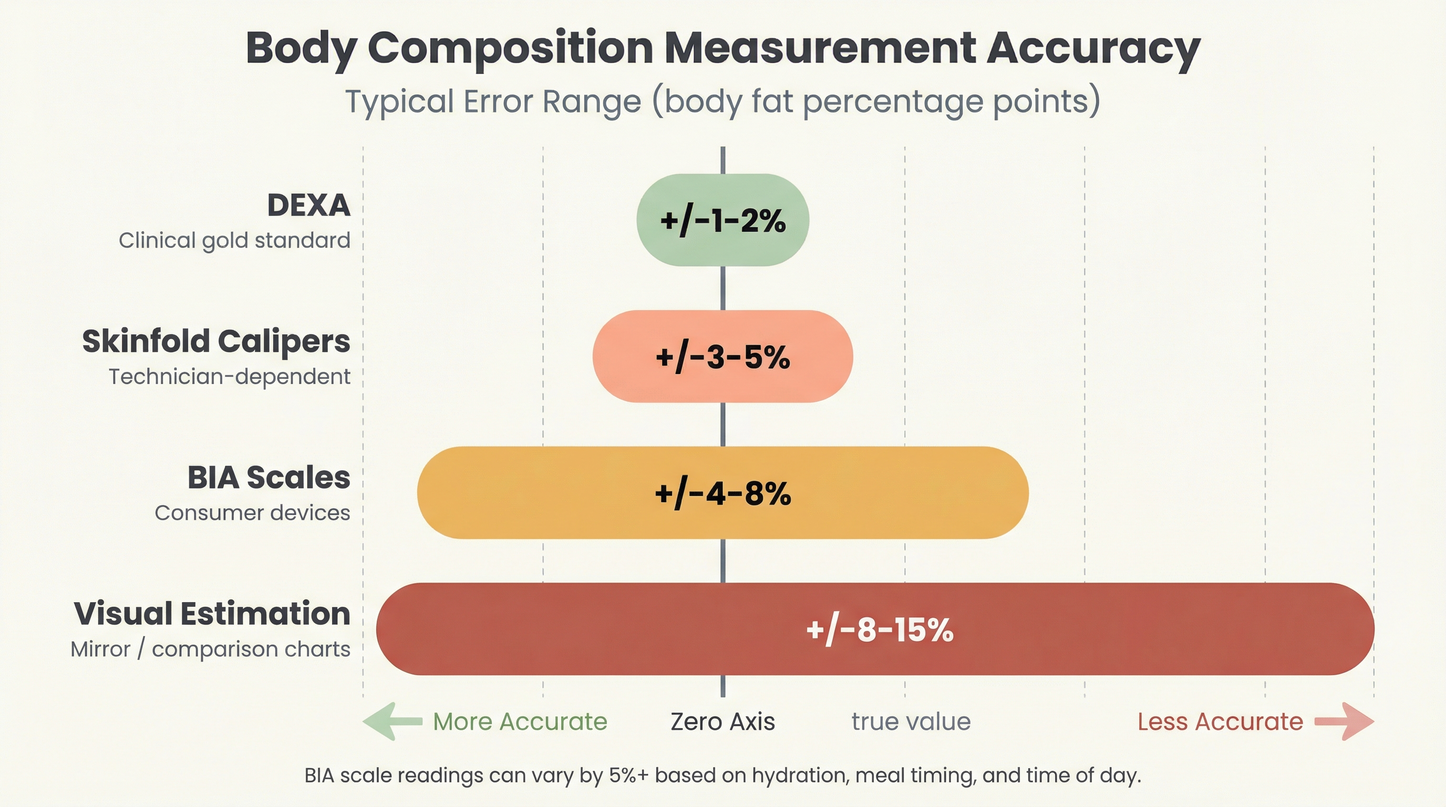
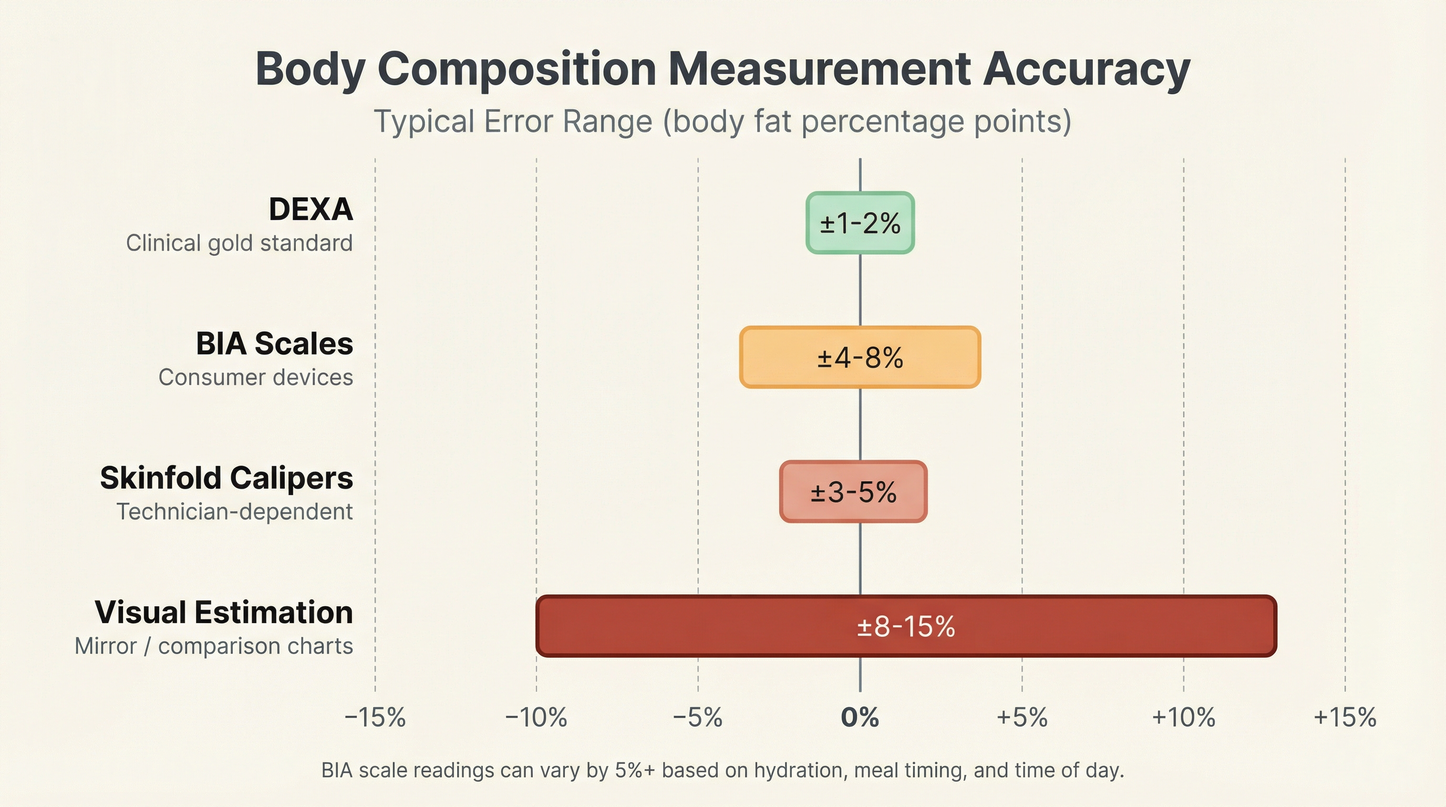
bl: Regenerate method-comparison diagram with improved spec
Strengthen the PaperBanana spec to fix generation artifacts: wrong row
order, spurious "Zero Axis"/"true value" labels, confusing directional
arrows, and blob-like bar shapes. Adds explicit ordering, negative
constraints, and bar shape requirements. Removes the accuracy direction
indicators section that confused the generator.

diff --git a/specs/diagrams/method-comparison.md b/specs/diagrams/method-comparison.md
@@ -15,48 +15,47 @@ Compare the accuracy (typical error range in body fat percentage points) of four
 
 **Canvas:** 800 x 500px, landscape orientation. Background: #F8F8F8.
 
+**IMPORTANT — Row Order:** The rows MUST appear in exactly this order from top to bottom: 1. DEXA, 2. BIA Scales, 3. Skinfold Calipers, 4. Visual Estimation. This order is from most accurate to least accurate. Do NOT reorder them.
+
+**IMPORTANT — Negative Constraints:** Do NOT add any labels like "Zero Axis", "true value", "center line", or "More Accurate" / "Less Accurate". Do NOT add directional arrows below the chart. Only show percentage values (−15%, −10%, −5%, 0%, +5%, +10%, +15%) as axis labels along the bottom.
+
+**IMPORTANT — Bar Shape:** Bars should be clean, flat-edged rectangles with slightly rounded corners (rx: 6). They must NOT be pill shapes, ovals, or blob-like forms. Each bar should have crisp, straight edges.
+
 ### Horizontal Error Range Chart (y: 90-380)
 
-A diverging bar chart centered on a "true value" axis (0% error). The chart shows the typical error range for each method as a horizontal bar centered on the zero line.
+A diverging bar chart centered on a zero-error axis. The chart shows the typical error range for each method as a horizontal bar centered on the zero line.
 
 **Central axis (0% error):**
 - Vertical line at x: 400. Stroke: #7C8D90, 1px solid. Extends from y: 100 to y: 370.
-- Label at bottom: "0%" in 11px semibold #1C3133.
 
 **Grid lines (dashed, background reference):**
-- At -5%, +5%, +10%, +15% positions. Stroke: #DFE2E2, 1px, dash 4,4.
-- Labels at bottom of grid lines in 11px #7C8D90.
+- At −15%, −10%, −5%, +5%, +10%, +15% positions. Stroke: #DFE2E2, 1px, dash 4,4.
+- Percentage labels at the bottom of each grid line in 11px #7C8D90.
+- The center line gets a "0%" label at bottom in 11px semibold #1C3133.
 
 **Rows (top to bottom, each ~70px tall):**
 
 1. **DEXA (y: ~130-170):**
    - Left label: "DEXA" in 15px semibold #1C3133. Below: "Clinical gold standard" in 11px #7C8D90.
-   - Bar: Centered on x=400, spanning +/-1-2% (total width ~80px). Fill: #69D994 at 90% opacity. rx: 6.
-   - Value label centered in bar: "+/-1-2%" in 13px bold #1C3133.
+   - Bar: Centered on x=400, spanning ±1-2% (total width ~80px). Fill: #69D994 at 90% opacity. rx: 6.
+   - Value label centered in bar: "±1-2%" in 13px bold #1C3133.
 
 2. **BIA Scales (y: ~200-240):**
    - Left label: "BIA Scales" in 15px semibold #1C3133. Below: "Consumer devices" in 11px #7C8D90.
-   - Bar: Centered on x=400, spanning +/-4-8% (total width ~160px). Fill: #F5C842 at 80% opacity. rx: 6.
-   - Value label: "+/-4-8%" in 13px bold #1C3133.
+   - Bar: Centered on x=400, spanning ±4-8% (total width ~160px). Fill: #F5C842 at 80% opacity. rx: 6.
+   - Value label: "±4-8%" in 13px bold #1C3133.
 
 3. **Skinfold Calipers (y: ~270-310):**
    - Left label: "Skinfold Calipers" in 15px semibold #1C3133. Below: "Technician-dependent" in 11px #7C8D90.
-   - Bar: Centered on x=400, spanning +/-3-5% (total width ~120px). Fill: #E87D7D at 70% opacity. rx: 6.
-   - Value label: "+/-3-5%" in 13px bold #1C3133.
+   - Bar: Centered on x=400, spanning ±3-5% (total width ~120px). Fill: #E87D7D at 70% opacity. rx: 6.
+   - Value label: "±3-5%" in 13px bold #1C3133.
 
 4. **Visual Estimation (y: ~340-380):**
    - Left label: "Visual Estimation" in 15px semibold #1C3133. Below: "Mirror / comparison charts" in 11px #7C8D90.
-   - Bar: Centered on x=400, spanning +/-8-15% (total width ~320px). Fill: #C0392B at 60% opacity. rx: 6.
-   - Value label: "+/-8-15%" in 13px bold #FFFFFF (white, because the bar is dark).
+   - Bar: Centered on x=400, spanning ±8-15% (total width ~320px). Fill: #C0392B at 60% opacity. rx: 6.
+   - Value label: "±8-15%" in 13px bold #FFFFFF (white, because the bar is dark).
 
-### Accuracy Direction Indicators (y: 410-440)
-
-Two horizontal arrows below the chart:
-
-- **Left arrow (pointing toward center):** "More accurate" label in 11px #69D994. Arrow stroke: #69D994 2px, with arrowhead pointing right toward the center.
-- **Right arrow (pointing away from center):** "Less accurate" label in 11px #E87D7D. Arrow stroke: #E87D7D 2px, with arrowhead pointing left toward the center.
-
-### Bottom Note (y: 470)
+### Bottom Note (y: 430)
 
 - "BIA scale readings can vary by 5%+ based on hydration, meal timing, and time of day" in 11px #7C8D90, centered.
 
@@ -101,8 +100,8 @@ The color gradient from green to red intuitively maps to accuracy level (best to
 
 ## Data Accuracy
 
-- DEXA: +/-1-2% body fat (Shepherd et al., 2017; Toombs et al., 2012).
-- BIA: +/-4-8% body fat, varying by device quality and conditions (Malavolti et al., 2003; Achamrah et al., 2018).
-- Skinfold calipers: +/-3-5% body fat, highly dependent on technician skill (Heyward & Wagner, 2004).
-- Visual estimation: +/-8-15% body fat (informal; based on studies comparing self-assessment to measured values).
+- DEXA: ±1-2% body fat (Shepherd et al., 2017; Toombs et al., 2012).
+- BIA: ±4-8% body fat, varying by device quality and conditions (Malavolti et al., 2003; Achamrah et al., 2018).
+- Skinfold calipers: ±3-5% body fat, highly dependent on technician skill (Heyward & Wagner, 2004).
+- Visual estimation: ±8-15% body fat (informal; based on studies comparing self-assessment to measured values).
 - Note: These are approximate typical ranges for educational purposes. Individual device precision may vary.
